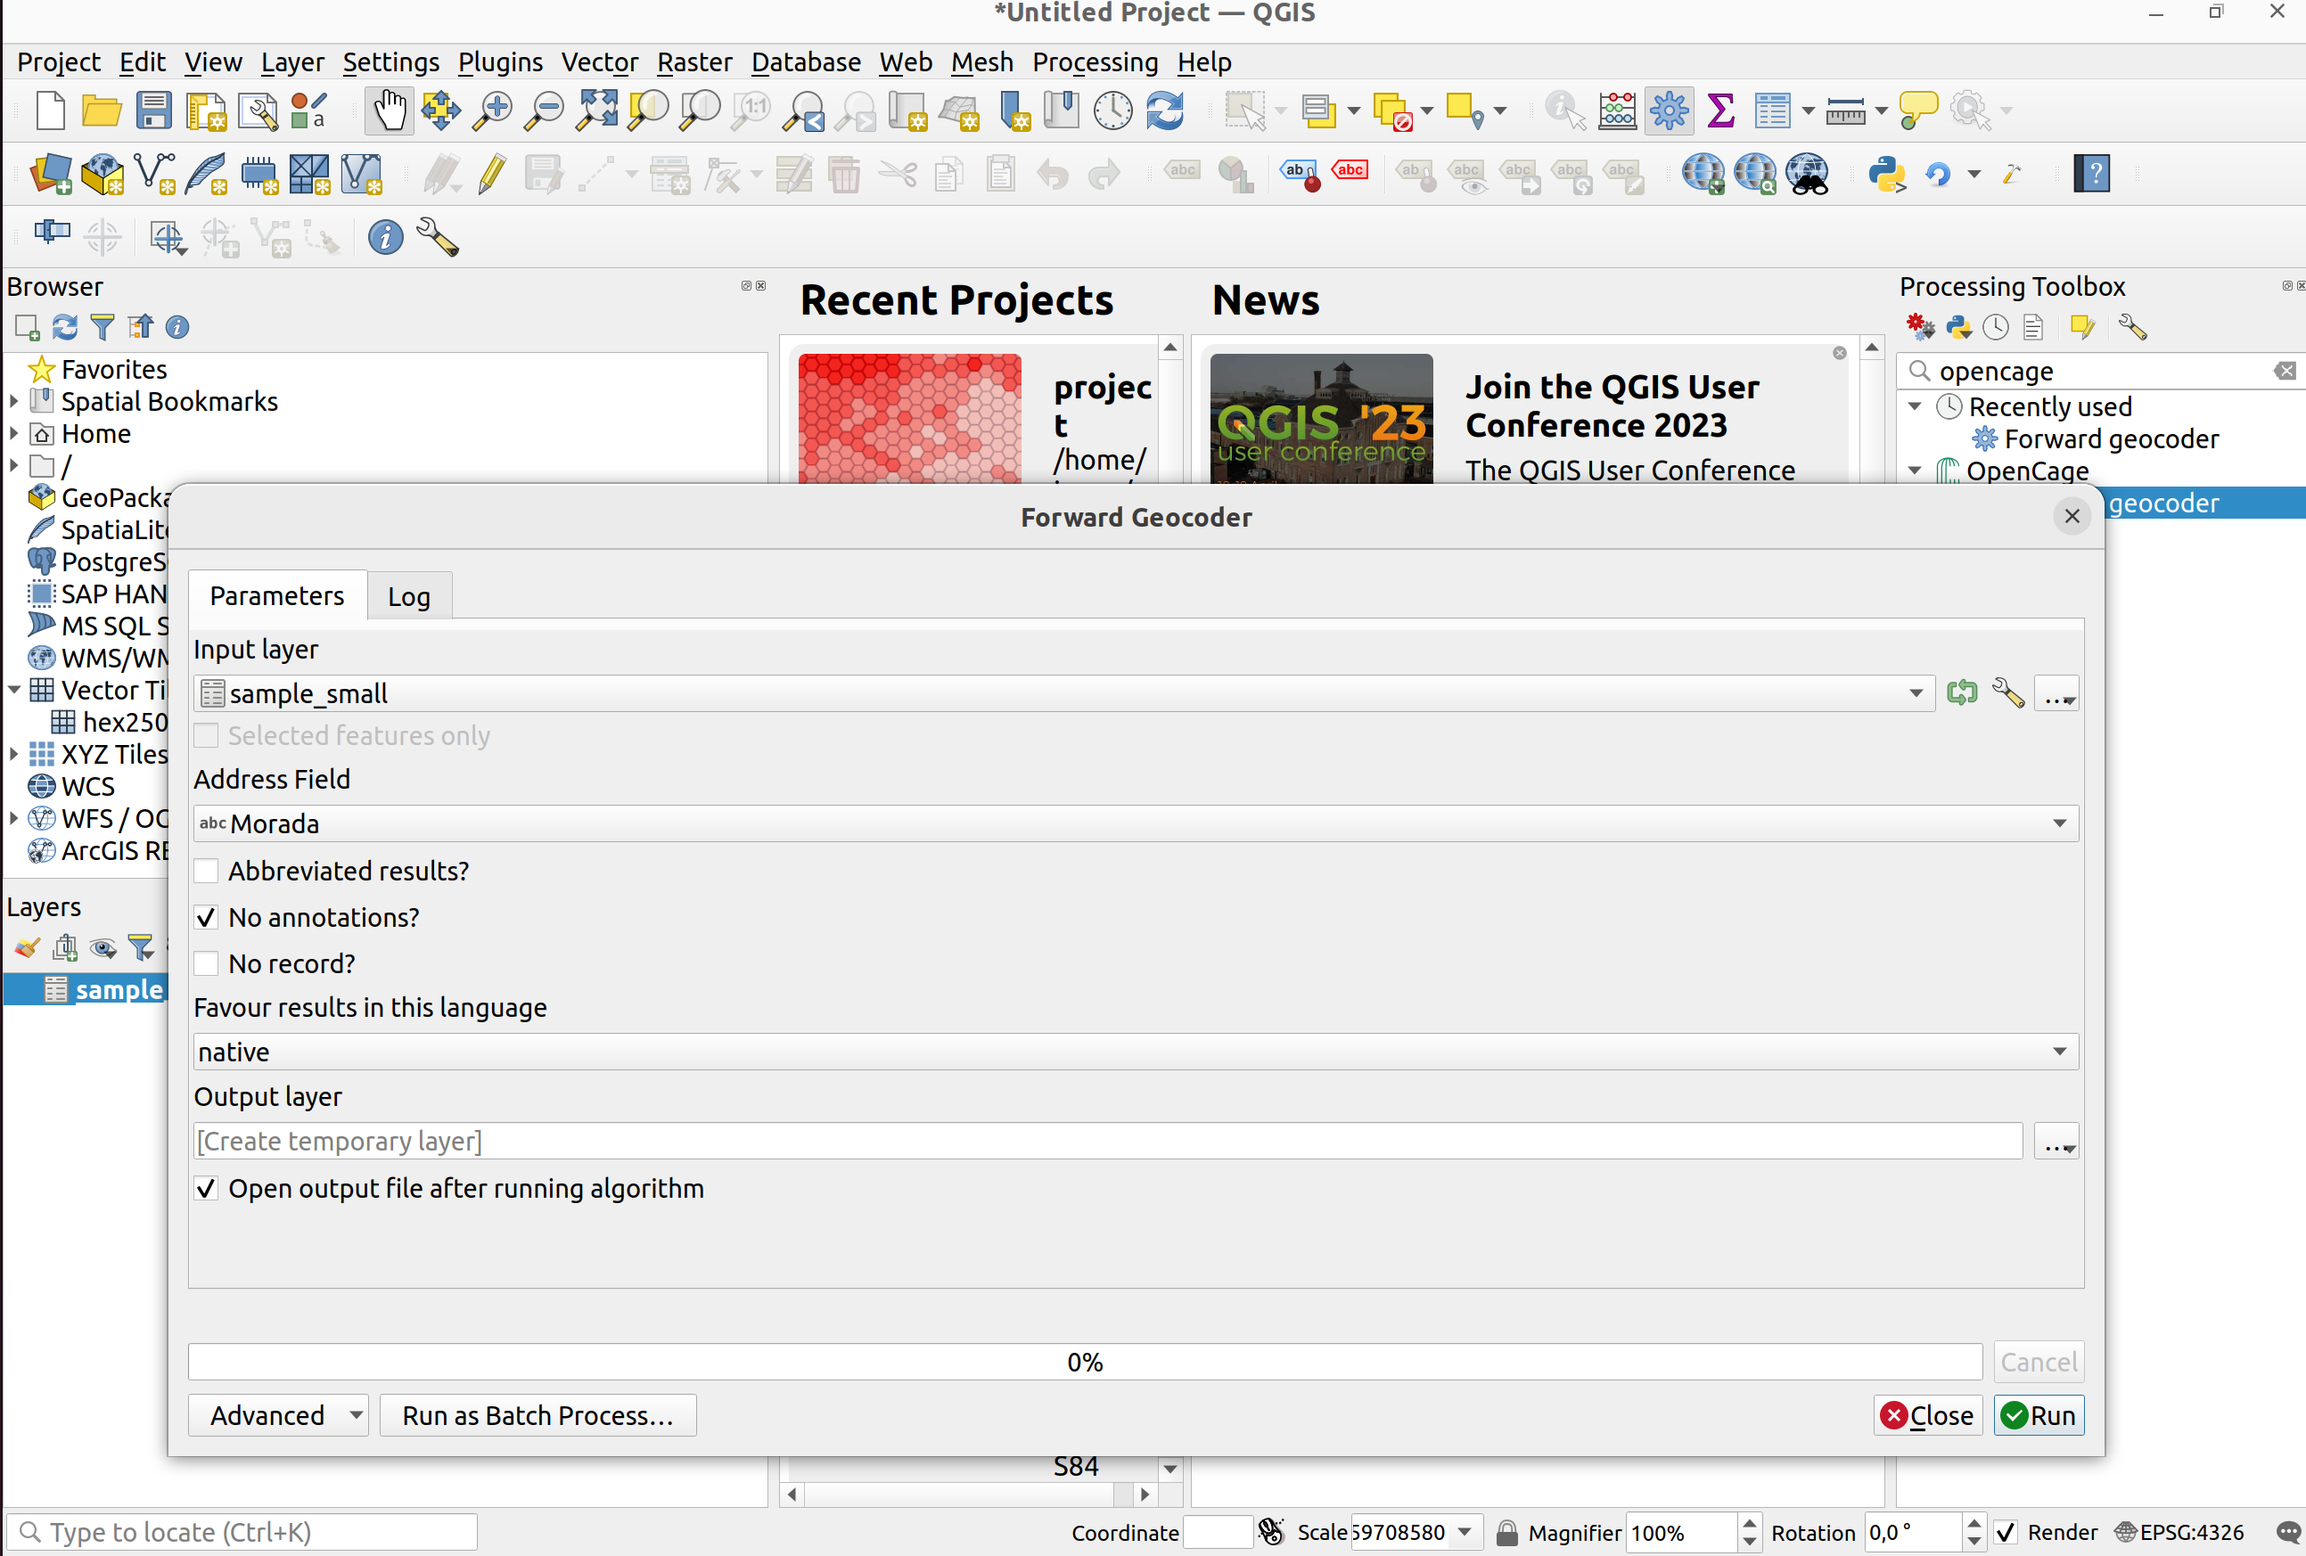
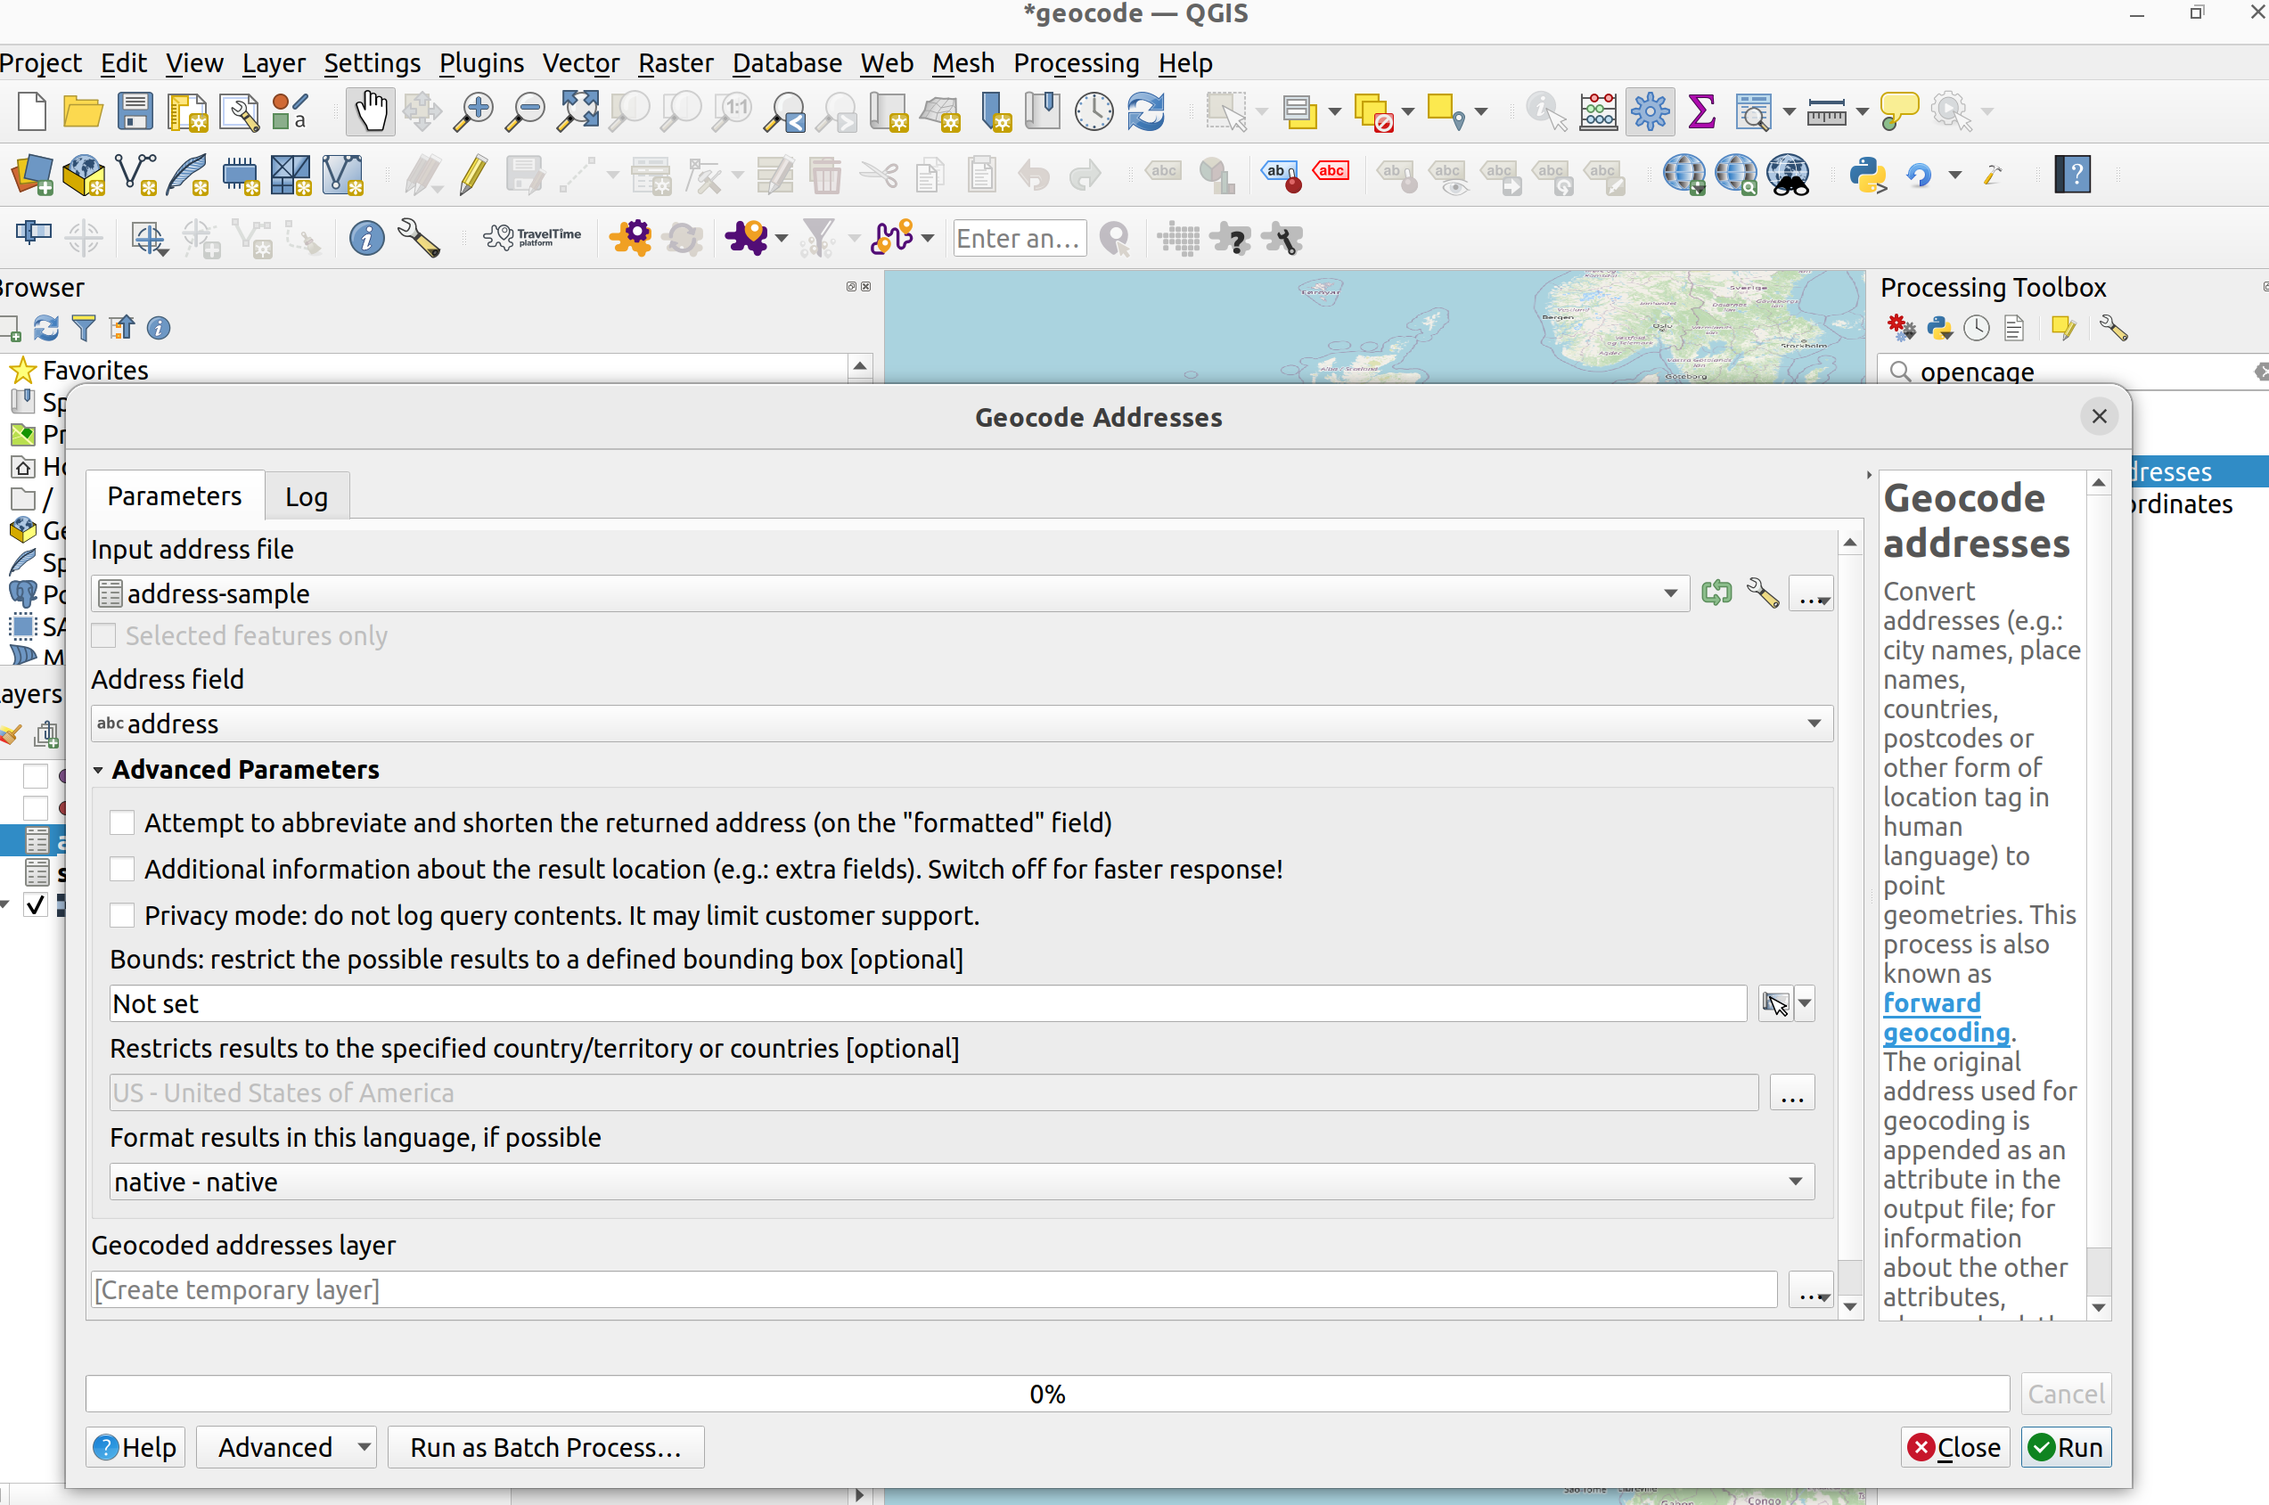
- updated README with information about datasets and reverse geocoder - regenerated screenshots to reflect new UI - always generate reverse geocoded layer in WGS84

Changed region(s): [[0.0, 0.0, 1.0, 1.0], [0.9619, 0.0, 1.0, 0.0308], [0.9929, 0.1539, 1.0, 0.1847]]

diff --git a/opencage_geocoder/processing/reverse.py b/opencage_geocoder/processing/reverse.py
@@ -169,9 +169,9 @@ class ReverseGeocode(QgsProcessingAlgorithm):
         # dictionary returned by the processAlgorithm function.
         source = self.parameterAsSource(parameters, self.INPUT, context)
 
-        # crs = QgsCoordinateReferenceSystem("EPSG:4326")
+        crs = QgsCoordinateReferenceSystem("EPSG:4326")
         (sink, dest_id) = self.parameterAsSink(parameters, self.OUTPUT,
-                context, geocoder.appendedFields(), QgsWkbTypes.Point , source.sourceCrs())
+                context, geocoder.appendedFields(), QgsWkbTypes.Point , crs)
 
         # Compute the number of steps to display within the progress bar and
         # get features from source
@@ -190,7 +190,6 @@ class ReverseGeocode(QgsProcessingAlgorithm):
                     break
 
                 geom = feature.geometry()
-                orig_geom = geom # Keep the original geometry
                 res = geom.transform(xform)
                 if res != 0:
                     raise QgsProcessingException
@@ -198,7 +197,7 @@ class ReverseGeocode(QgsProcessingAlgorithm):
                 lat = geom.asPoint().y()
                 lng = geom.asPoint().x()
                 
-                new_feature = geocoder.reverse(orig_geom, lat, lng, abbreviation, no_annotations, 
+                new_feature = geocoder.reverse(geom, lat, lng, abbreviation, no_annotations, 
                                                no_record, address_only, language, 
                                                context, feedback)
 

diff --git a/README.md b/README.md
@@ -1,6 +1,6 @@
 # OpenCage Geocoder QGIS Plugin
 
-This processing plugin enables geocoding using the [OpenCage Geocoding API](https://opencagedata.com). In order to use it, you need to [sign up](https://opencagedata.com/users/sign_up) for an API key first. Sign up is quick and free.
+This processing plugin enables forward and reverse geocoding using the [OpenCage Geocoding API](https://opencagedata.com). In order to use it, you need to [sign up](https://opencagedata.com/users/sign_up) for an API key first. Sign up is quick and free.
 
 ## Manual Install
 
@@ -41,13 +41,13 @@ You can browse the processing panel to find the `Opencage` provider, or type `op
 
  <img src="./processing-toolbox.png" width="50%">
 
-### Forward Geocoding
+### Forward Geocoding - geocoding addresses
 
 Before runnning this algorithm you will need a text file (csv), with a field which contains locations in natural language (addresses, cities, postcodes); this will be the input of the geocoding algorithm. You can use the [sample](./opencage_geocoder/test/data/sample_small.csv) provided in the test folder. Add it to QGIS, by dragging the file into the layers panel on the left
 
  <img src="./address-file.png" width="50%">
 
-To run the forward geocoding algorithm, click in `Forward`. This will open a dialog with options. In the input layer, choose the file you just added (it should be added by default, if you don't have any more layers). Then select the field which contains the location you want to geocode; in this case, `Morada`. Select the other options as appropriate and choose `Run`. 
+To run the forward geocoding algorithm, click in `Geocoding addresses`. This will open a dialog with options. In the input layer, choose the file you just added (it should be added by default, if you don't have any more layers). Then select the field which contains the location you want to geocode; in this case, `Morada`. Select the other options as appropriate and choose `Run`. 
 
  <img src="./forward-geocoder.png" width="50%">
 
@@ -55,14 +55,29 @@ The geocode process will run in the background and show you a log of what is hap
 
  <img src="./run-forward.png" width="50%">
 
-<img src="./results.png" width="50%">
+The original address used for geocoding is appended as an attribute. 
+
+<img src="./results-forward.png" width="50%">
+
+### Reverse Geocoding - geocoding coordinates
+
+Before runnning this algorithm you will need a vector file with point geometries (e.g.: GeoPackage, GeoJSON, etc); this will be the input of the geocoding algorithm. You can use the [sample](./opencage_geocoder/test/data/portuguese-poi_small.gpkg) provided in the test folder. Add it to QGIS, by dragging the file into the layers panel on the left. You can use a vector file with any CRS; regardless, the geometries will always be projected to WGS84 during geocoding and the result file will always be in that projection.
+
+ <img src="./point-file.png" width="50%">
+
+To run the reverse geocoding algorithm, click in `Geocoding coordinates`. This will open a dialog with options. In the input layer, choose the file you just added (it should be added by default, if you don't have any more layers). Select the other options as appropriate and choose `Run`. 
+
+ <img src="./reverse-geocoder.png" width="50%">
+
+The geocode process will run in the background and show you a log of what is happening. When completed it will automatically add a vector file to the QGIS layer browser, which contains the geocoded locations, along with other structured information (depending on the options you selected). If you want to persist this file, you should export the layer to a geospatial format (e.g.: Geopackage, GeoJSON, etc).
+
+ <img src="./run-reverse.png" width="50%">
+
+The coordinates used for geocoding are appended as attributes. They are always translated to WGS84, if they were originally in a different CRS.
+
+<img src="./results-reverse.png" width="50%">
 
 ## Develop
-
-  * You can use the ` Makefile` to compile and deploy when you make changes. This requires GNU make (gmake). The Makefile is ready to use, however you  will have to edit it to add addional Python source files, dialogs, and translations.
-  * You can also use `pb_tool` to compile and deploy your plugin. Tweak the `pb_tool.cfg`  file included with your plugin as you add files. Install `pb_tool` using 
-  `pip` or `easy_install`. See http://loc8.cc/pb_tool for more information.
-  * Test the code using `make test` (or run tests from your IDE)
 
   For information on writing PyQGIS code, see http://loc8.cc/pyqgis_resources for a list of resources.
 
